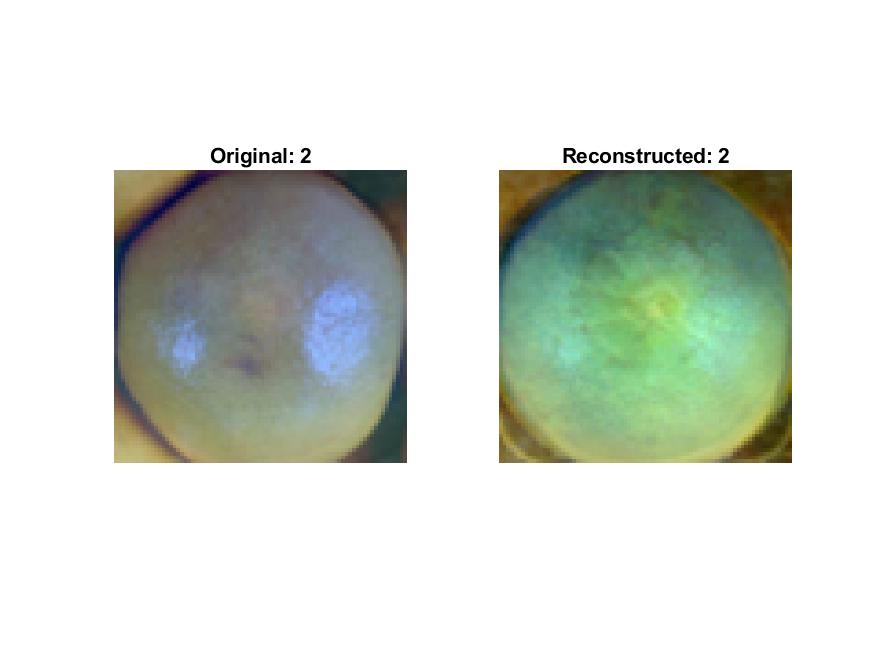
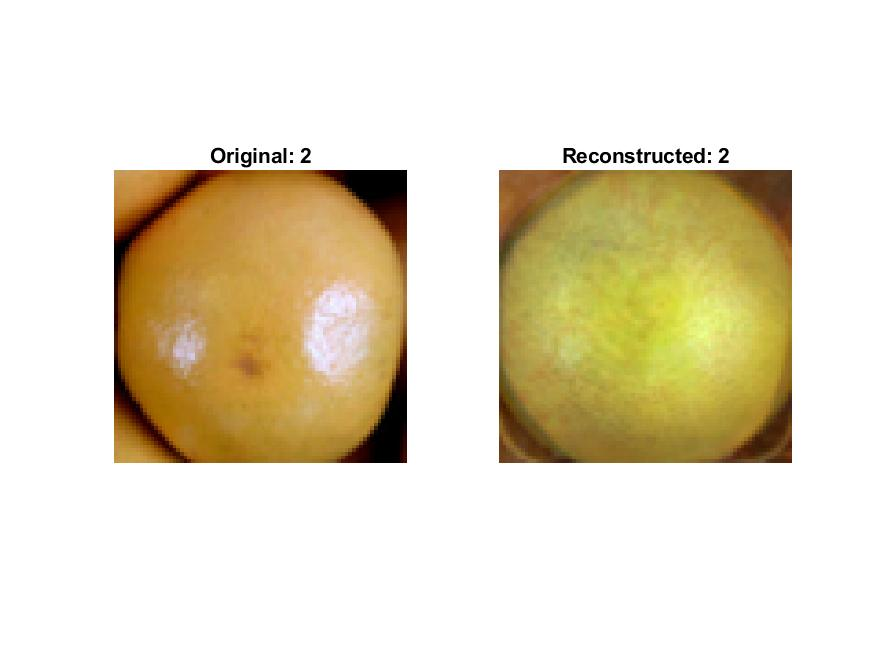
Q6: Fixed bug in code

Changed region(s): [[0.5554, 0.2439, 0.9257, 0.7317], [0.1234, 0.2439, 0.4937, 0.7317]]

diff --git a/code/q6.m b/code/q6.m
@@ -26,7 +26,7 @@ clear i;
 clear img;
 clear path;
 
-% Compute sample mean
+% Compute sample mean of the original data
 mu = sum(data, 2)./N;
 
 % Preprocessing:
@@ -44,7 +44,7 @@ C = (1/(N-1)).*(data * data');
 
 clear C;
 
-Q4 = Q(:, 1:4); % First 4 columns of Q
+Q4 = Q(:, 1:4); % First 4 columns of Q, normalized eigenvectors of C
 eigvals = diag(L); % All diagonal values in a column vector
 
 clear Q;
@@ -77,18 +77,18 @@ grid on;
 xlabel("n");
 ylabel("Eigenvalue");
 title("Question 6: First 10 Eigenvalues");
-saveas(gca, "plots/q6/q6ii.jpg");
+saveas(gcf, "plots/q6/q6ii.jpg");
 hold off;
 
 % Part 2: Reconstruction of original data
 coeffs = data' * Q4; % 16x4
-data_reconstructed = Q4*coeffs';
+data_reconstructed = mu./255 + Q4*coeffs';
 
 hold off;
 for i=1:16
     f = figure('visible', 'off');
     subplot(1, 2, 1);
-    image(toImg(data(:, i), SHAPE));
+    image(toImg(data(:, i)+mu./255, SHAPE)); % Original uncentered image
     title("Original: "+i);
     pbaspect([1 1 1]);
     axis off;
